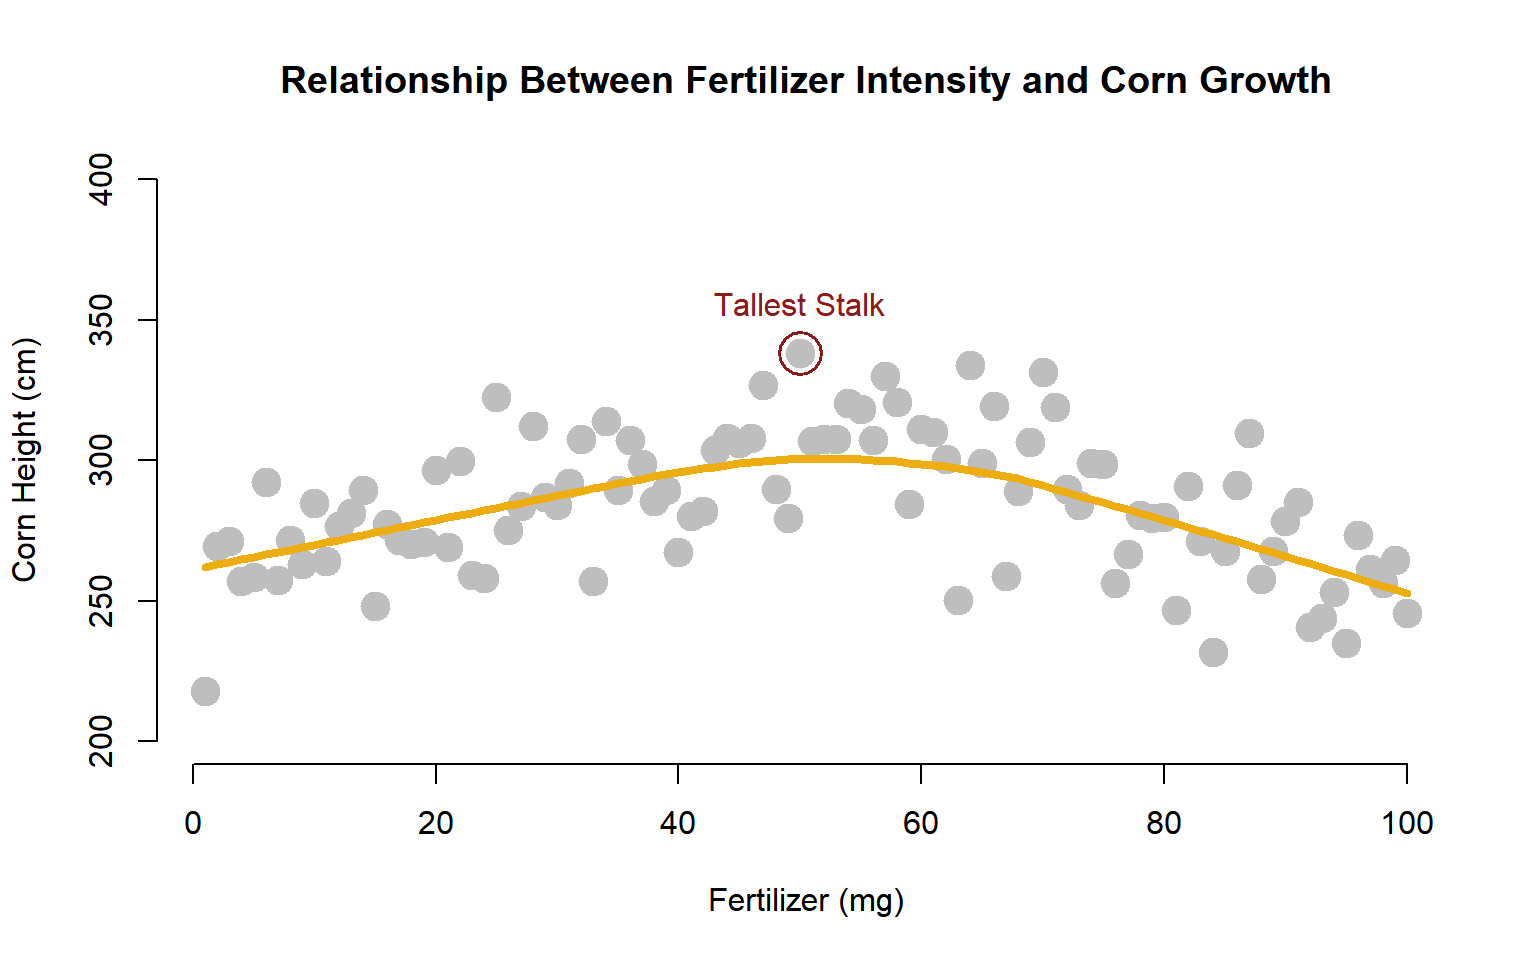
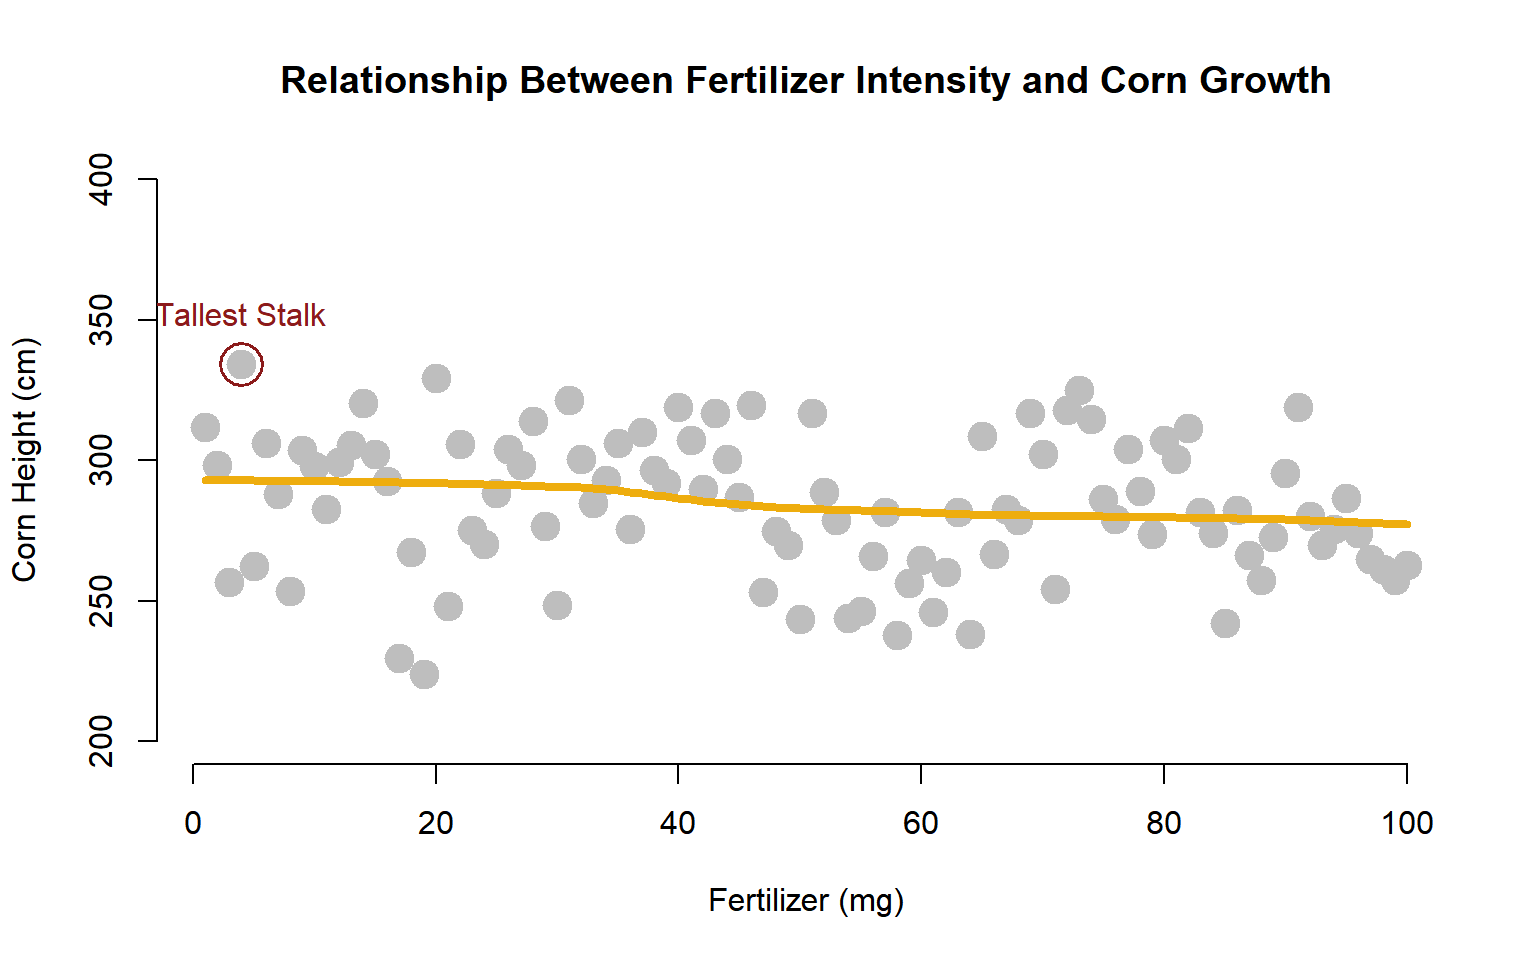
p-061

diff --git a/p-061-plot-basics.html b/p-061-plot-basics.html
@@ -297,64 +297,64 @@ Figure 1.1: The core graphics package allows you to control every element of a v
 </thead>
 <tbody>
 <tr class="odd">
-<td align="center">76</td>
-<td align="center">256</td>
-<td align="center">0.47</td>
-<td align="center">C</td>
-</tr>
-<tr class="even">
-<td align="center">22</td>
-<td align="center">300</td>
-<td align="center">0.5</td>
-<td align="center">B</td>
-</tr>
-<tr class="odd">
-<td align="center">25</td>
-<td align="center">323</td>
-<td align="center">0.6</td>
-<td align="center">C</td>
-</tr>
-<tr class="even">
-<td align="center">29</td>
-<td align="center">287</td>
-<td align="center">0.4</td>
-<td align="center">C</td>
-</tr>
-<tr class="odd">
-<td align="center">69</td>
-<td align="center">306</td>
-<td align="center">0.51</td>
+<td align="center">51</td>
+<td align="center">312</td>
+<td align="center">0.36</td>
 <td align="center">A</td>
 </tr>
 <tr class="even">
-<td align="center">24</td>
-<td align="center">258</td>
-<td align="center">0.76</td>
-<td align="center">C</td>
-</tr>
-<tr class="odd">
-<td align="center">60</td>
-<td align="center">311</td>
-<td align="center">0.07</td>
+<td align="center">43</td>
+<td align="center">298</td>
+<td align="center">0.47</td>
 <td align="center">B</td>
 </tr>
-<tr class="even">
-<td align="center">7</td>
+<tr class="odd">
+<td align="center">2</td>
 <td align="center">257</td>
-<td align="center">0.47</td>
+<td align="center">0.78</td>
 <td align="center">A</td>
 </tr>
+<tr class="even">
+<td align="center">21</td>
+<td align="center">334</td>
+<td align="center">0.27</td>
+<td align="center">C</td>
+</tr>
 <tr class="odd">
-<td align="center">81</td>
-<td align="center">247</td>
-<td align="center">0.57</td>
+<td align="center">14</td>
+<td align="center">262</td>
+<td align="center">0.55</td>
 <td align="center">A</td>
+</tr>
+<tr class="even">
+<td align="center">55</td>
+<td align="center">306</td>
+<td align="center">1.11</td>
+<td align="center">B</td>
+</tr>
+<tr class="odd">
+<td align="center">26</td>
+<td align="center">288</td>
+<td align="center">0.62</td>
+<td align="center">B</td>
 </tr>
 <tr class="even">
 <td align="center">92</td>
-<td align="center">241</td>
-<td align="center">0.74</td>
+<td align="center">254</td>
+<td align="center">0.11</td>
 <td align="center">C</td>
+</tr>
+<tr class="odd">
+<td align="center">25</td>
+<td align="center">303</td>
+<td align="center">0.35</td>
+<td align="center">B</td>
+</tr>
+<tr class="even">
+<td align="center">65</td>
+<td align="center">298</td>
+<td align="center">0.28</td>
+<td align="center">A</td>
 </tr>
 </tbody>
 </table>
